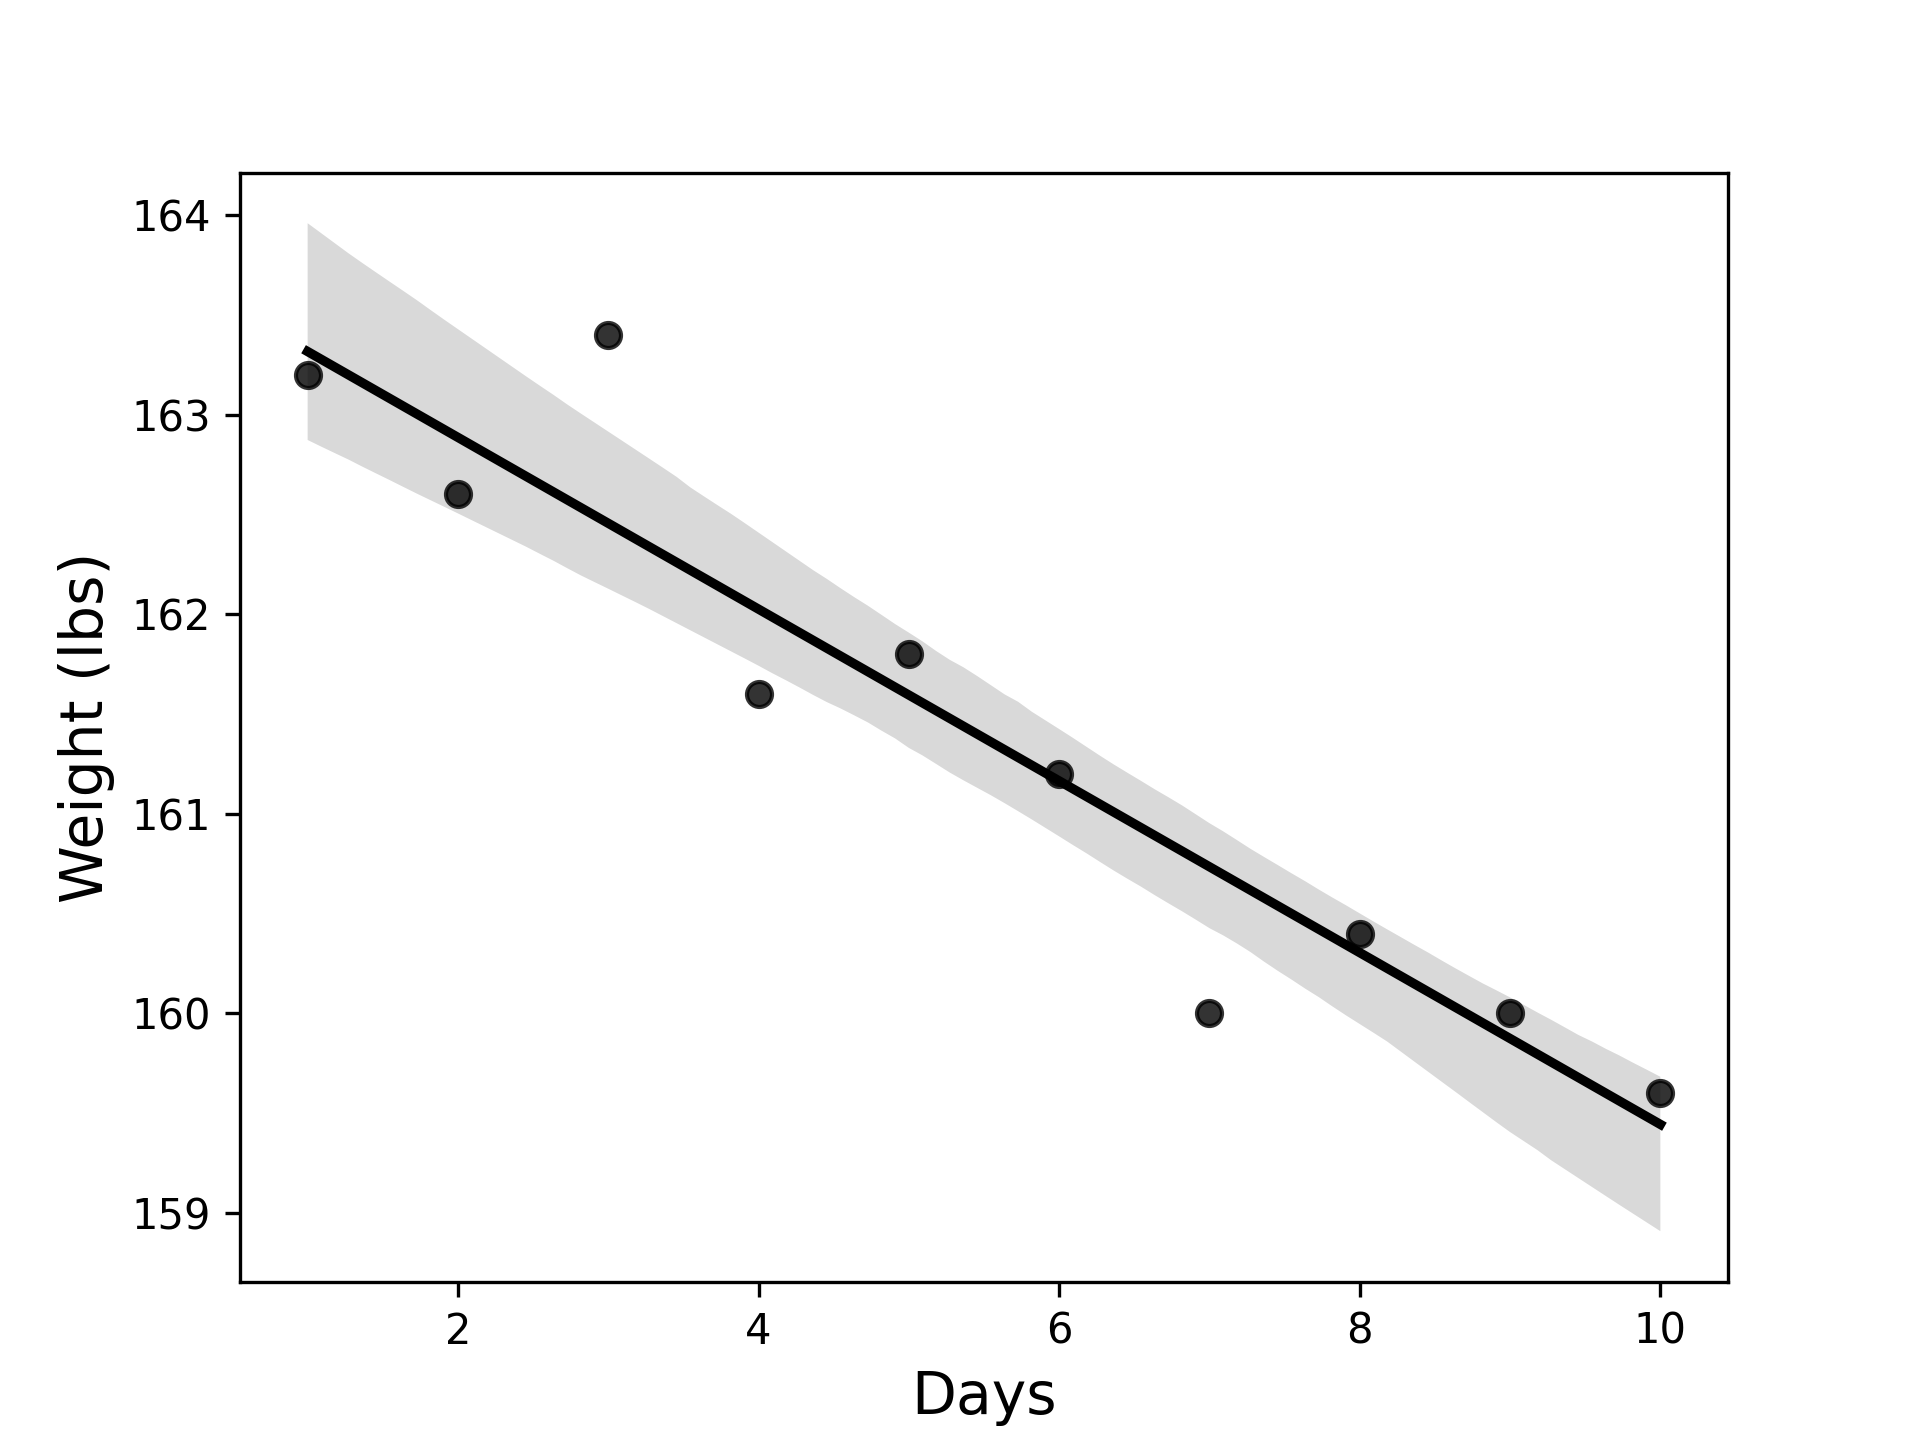
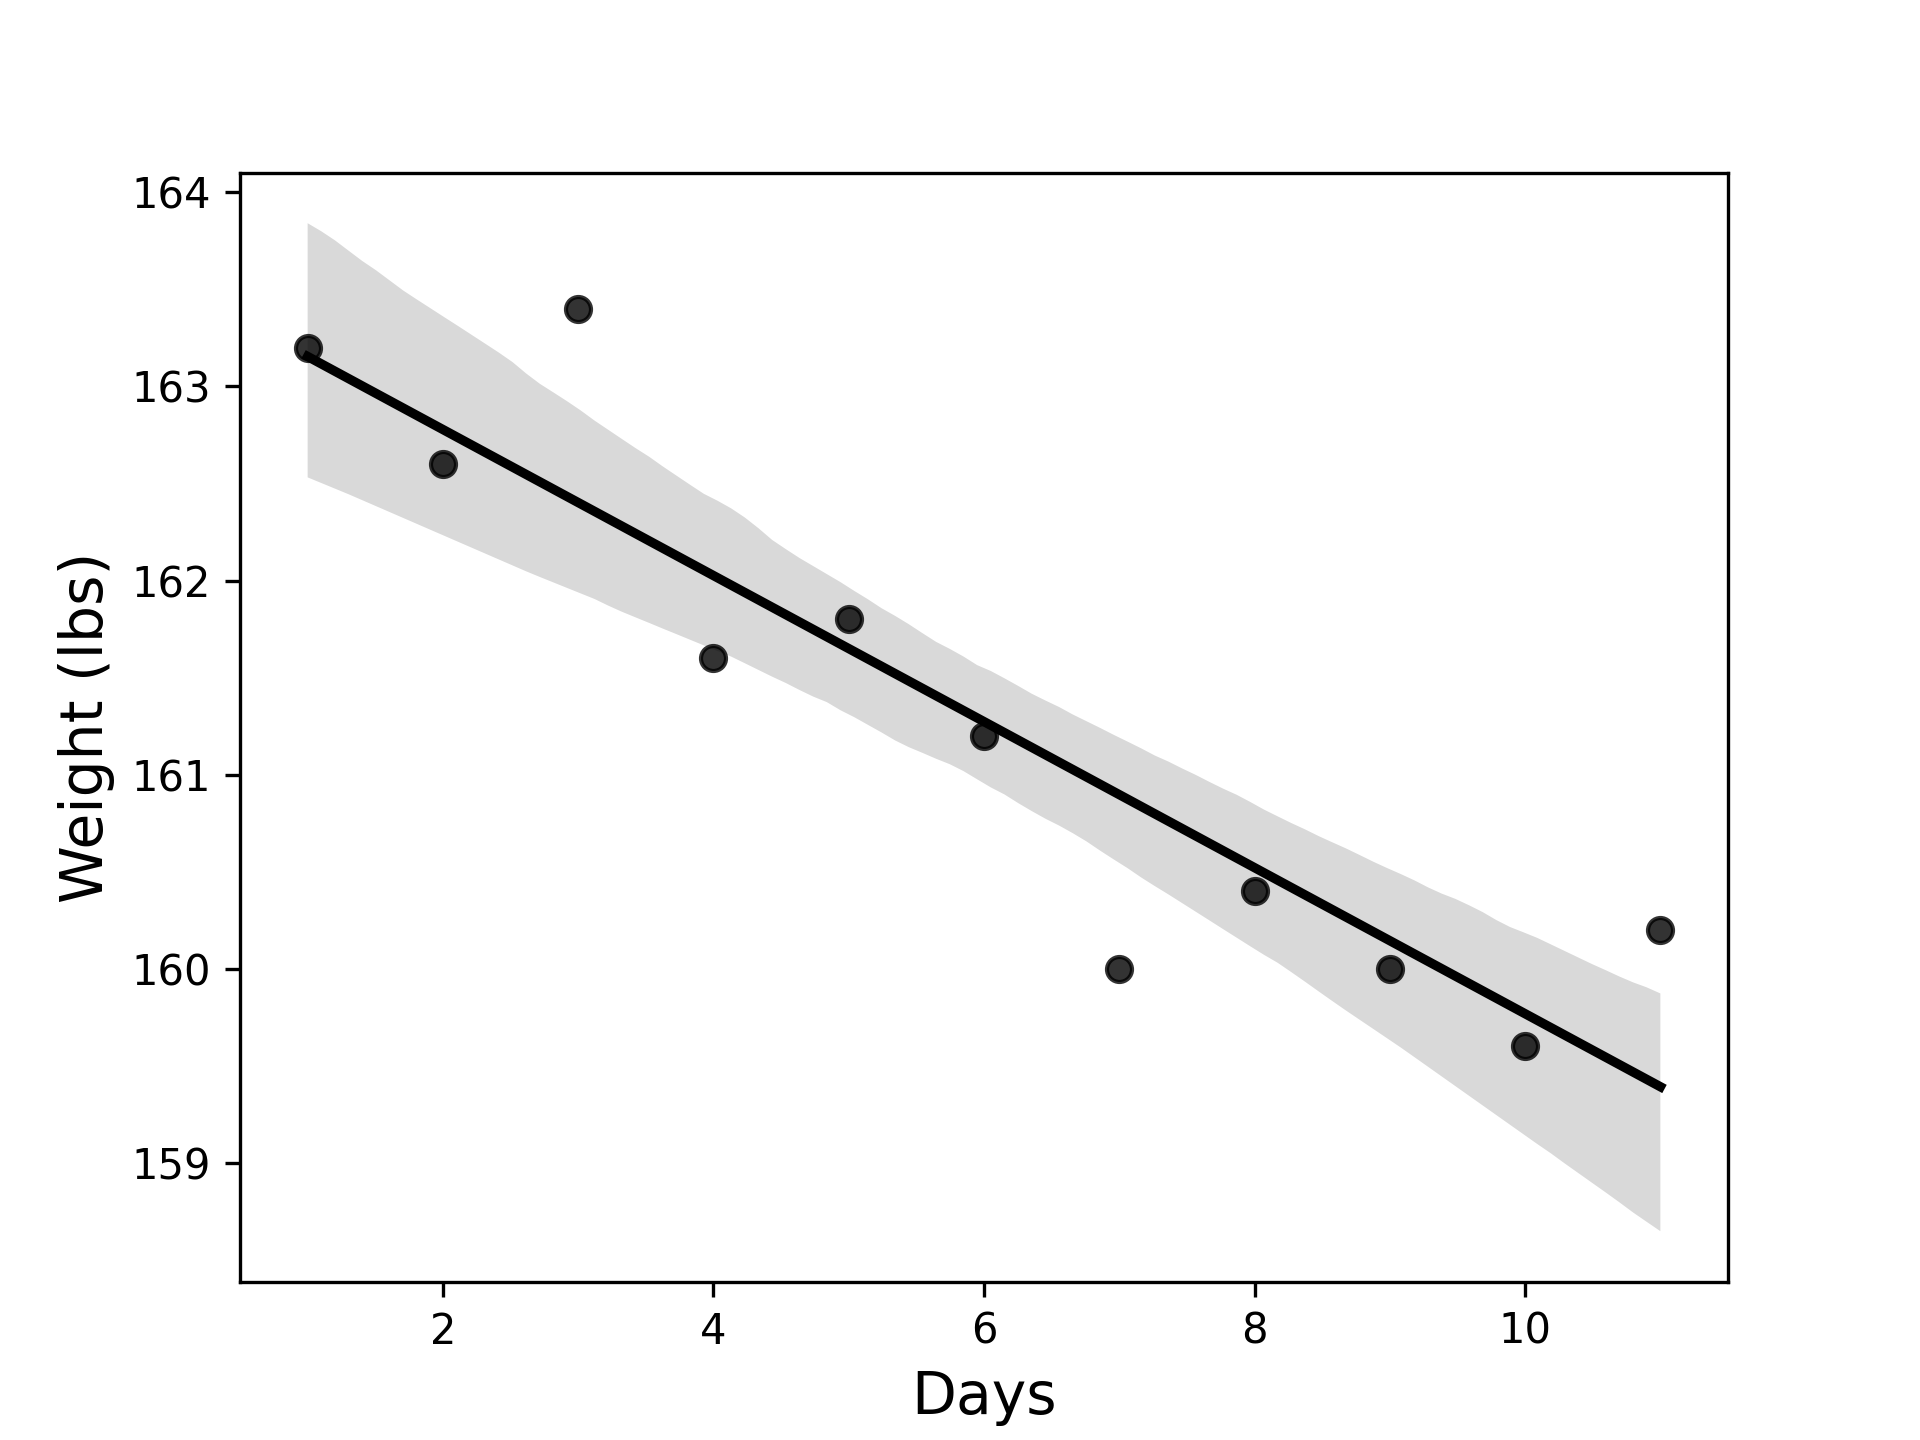
Updated weight.py and weight.png

diff --git a/Weight.py b/Weight.py
@@ -5,8 +5,8 @@ import matplotlib.pyplot as plt
 import seaborn as sns
 
 # Creates an array of elapsed days and assigns it to days_elapsed
-days_elapsed = np.array([1, 2, 3 ,4, 5, 6, 7, 8, 9, 10]).reshape(-1,1)
-weight = np.array([163.2, 162.6, 163.4, 161.6, 161.8, 161.2, 160.0, 160.4, 160.0, 159.6])
+days_elapsed = np.array([1, 2, 3 ,4, 5, 6, 7, 8, 9, 10,11]).reshape(-1,1)
+weight = np.array([163.2, 162.6, 163.4, 161.6, 161.8, 161.2, 160.0, 160.4, 160.0, 159.6,160.2])
 
 # Instantiates a LinearRegression model and fits it to the above arrays
 model = sklearn.linear_model.LinearRegression().fit(days_elapsed,weight)
